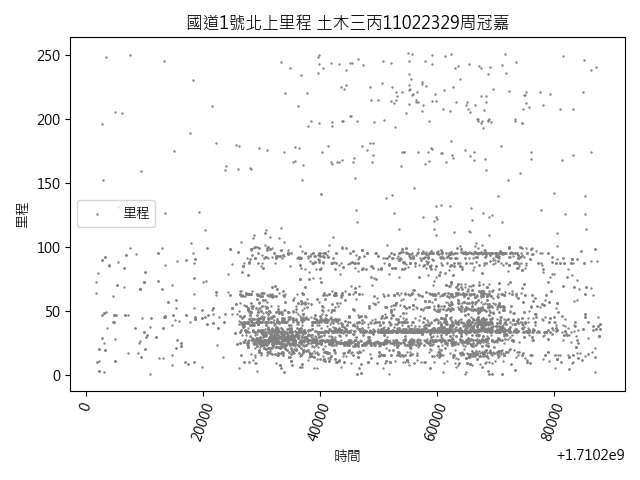
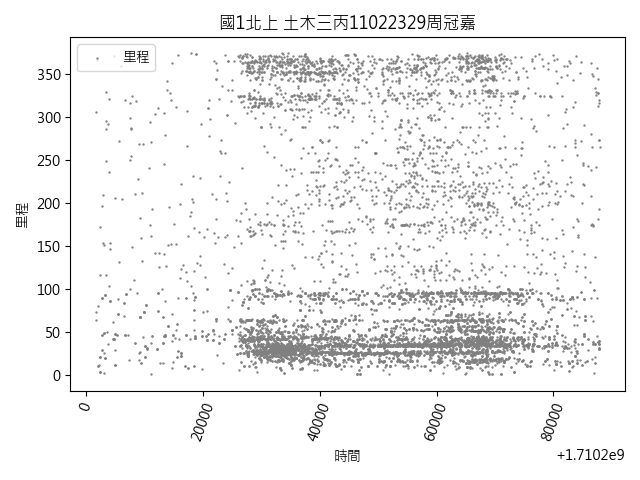
0840上傳

diff --git a/20240312/國一北上.py b/20240312/國一北上.py
@@ -6,13 +6,7 @@ df = pd.read_csv('C:\\Users\\User\\Desktop\\123.csv', encoding='utf-8')
 # 過濾出方向欄位為南向的資料
 south_data = df[df['方向'] == '北']
 
-highway_date = south_data[south_data['國道名稱'] == '國道3號']
-
-# 輸出highway_date的所有資料
-print(highway_date)
-
-# 統計每個里程數的數量
-mileage_count = highway_date['里程'].value_counts()
+highway_date = south_data[south_data['國道名稱'] == '國道1號']
 
 # 欄位年，月，日，時，分都換成數字
 highway_date['年'] = pd.to_datetime(highway_date['事件發生']).dt.year
@@ -41,10 +35,11 @@ import matplotlib.font_manager as fm
 # 設定中文字體
 plt.rcParams['font.family'] = 'Microsoft JhengHei'
 plt.scatter(highway_date['時間'], highway_date['里程'], label='里程', color='gray', s=0.5)  # 將點的大小設定為2
-plt.title('國3北上里程 土木三丙11022329周冠嘉')
+plt.title('國3北上 土木三丙11022329周冠嘉')
 plt.xlabel('時間')
 plt.ylabel('里程')
 plt.xticks(rotation=70)
+plt.ylim(0, 450)  # 將Y軸設置為450
 plt.legend()
 plt.tight_layout()
 plt.show()

diff --git a/20240312/國一南下.py b/20240312/國一南下.py
@@ -3,13 +3,10 @@ import pandas as pd
 # 讀取 CSV 文件
 df = pd.read_csv('C:\\Users\\User\\Desktop\\123.csv', encoding='utf-8')
 
-# 過濾出方向欄位為南向的資料
-south_data = df[df['方向'] == '南']
-
+# 過濾出方向欄位為'南向'和'南'的資料
+south_data = df[(df['方向'] == '北向')| (df['方向'] == '北')]
 highway_date = south_data[south_data['國道名稱'] == '國道3號']
 
-# 輸出highway_date的所有資料
-print(highway_date)
 
 # 統計每個里程數的數量
 mileage_count = highway_date['里程'].value_counts()
@@ -41,7 +38,7 @@ import matplotlib.font_manager as fm
 # 設定中文字體
 plt.rcParams['font.family'] = 'Microsoft JhengHei'
 plt.scatter(highway_date['時間'], highway_date['里程'], label='里程', color='gray', s=0.5)  # 將點的大小設定為2
-plt.title('國3南下 土木三丙11022329周冠嘉')
+plt.title('國3北上 土木三丙11022329周冠嘉')
 plt.xlabel('時間')
 plt.ylabel('里程')
 plt.xticks(rotation=70)
